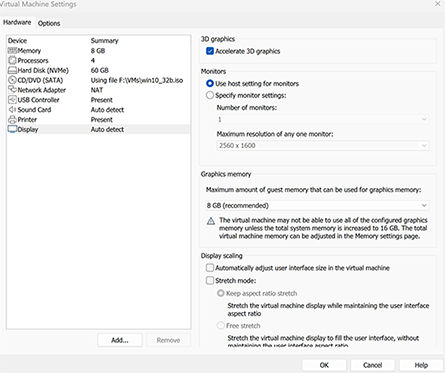
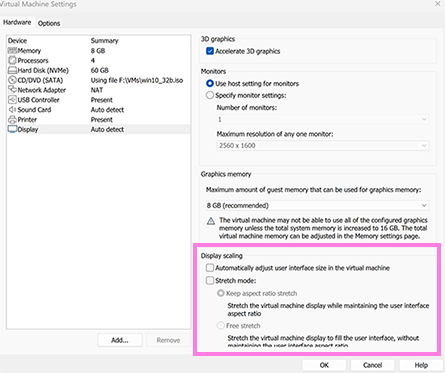
friday push

Changed region(s): [[0.409, 0.6488, 0.9933, 0.9732]]

diff --git a/assets/css/main.css b/assets/css/main.css
@@ -79,7 +79,7 @@ ul > li::before {
 /* Images */
 img {
   border: 3px solid #ececec;
-  max-width: 100%;
+  max-width: 50%;
   width: auto;
 }
 

diff --git a/content/posts/course01.md b/content/posts/course01.md
@@ -180,7 +180,7 @@ So just to be sure, at this point you should be staring at a Windows desktop. No
 
 Double-click the drive, hit `Yes` when asked if we want this app to make changes to the device. Hit `Next`, select `Typical` and hit `Next`. Finally hit `Install` and then once done `Finish`. You'll need to restart your system for the changes to take effect, but we'll shut it down since we need to change a setting. So hit the Windows icon, Power icon, and then select `Shut Down`.
 
-Right-click on your VM and select `Settings`. In the list on the LHS select `Display`, which should be right at the bottom. On the bottom - deselect `Automatically adjust user interface size in the virtual machine`, as well as `Strech mode`, it should now look like this:
+Right-click on your VM and select `Settings`. In the list on the LHS select `Display`, which should be right at the bottom. On the bottom - deselect `Automatically adjust user interface size in the virtual machine`, as well as `Stretch mode`, it should now look like this:
 
 {{< figure src="/img/image009.png" title="" class="custom-figure" >}}
 
@@ -200,9 +200,7 @@ Yes, the AV might pick up on our mischievous escapades here since we are using a
 
 And as for updates, we disable this because sometimes we can spend all this time configuring and setting things up and then one day we boot up our VM up, Windows does it's whole automatic update schpiel, and suddenly things are broken. This is thus a small time investment to hedge against extreme potential frustration. *So worth it*. 
 
-{{< figure src="/img/do_it_now.gif" title="" class="custom-figure" >}}
-
-simply to support the stability of our long-term use of this VM. 
+{{< figure src="/img/do_it_now.gif" title="" class="custom-figure" >}} 
 
 1. **Disable Tamper Protection**
     1. Hit the `Start` icon, then select the `Settings` icon.
